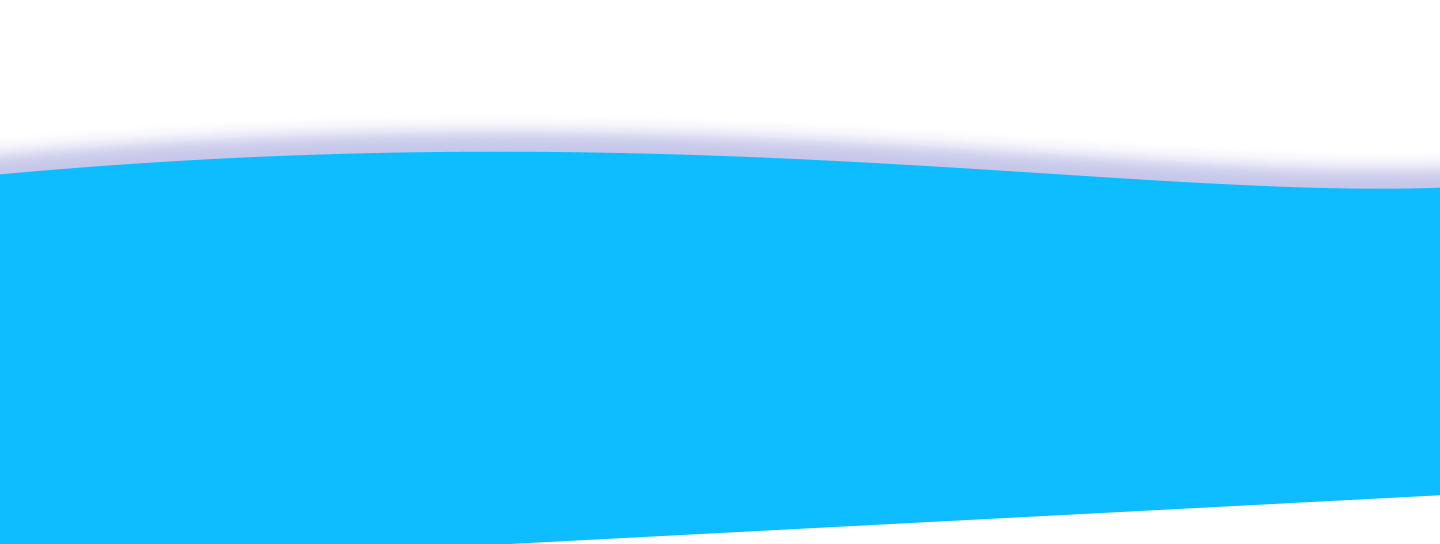
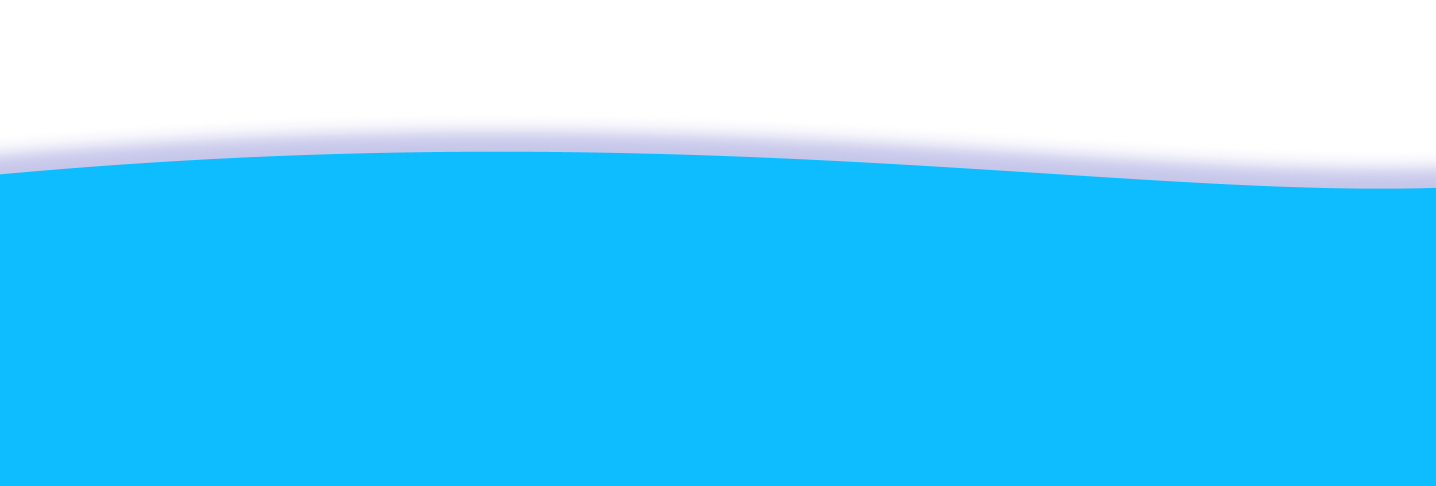
images changes and waves done

Changed region(s): [[0.0, 0.216, 1.0, 0.4012], [0.3677, 0.8951, 1.0, 1.0]]

diff --git a/src/components/Sitesliders/Bannersliders/Bannerslider.jsx b/src/components/Sitesliders/Bannersliders/Bannerslider.jsx
@@ -1,4 +1,4 @@
-import React from "react";
+import React, {useEffect} from "react";
 import Slider from "react-slick";
 import "slick-carousel/slick/slick.css";
 import "slick-carousel/slick/slick-theme.css";
@@ -30,22 +30,38 @@ const settings = {
 //   var wave3 = "--i:3";
 //   var wave4 = "--i:4";
 function Bannerslider(){
+    useEffect(() => {
+        let wave1 = document.getElementById('wave1');
+        let wave2 = document.getElementById('wave2');
+        let wave3 = document.getElementById('wave3');
+        let wave4 = document.getElementById('wave4');
+
+        window.addEventListener('scroll', function(){
+            let value = window.scrollY;
+            wave1.style.backgroundPositionX = 400 + value * 4 + 'px';
+            wave2.style.backgroundPositionX = 300 + value * -4 + 'px';
+            wave3.style.backgroundPositionX = 200 + value * 2 + 'px';
+            wave4.style.backgroundPositionX = 100 + value * -2 + 'px';
+        });
+
+    }, []);
     return(
         <>
             <div className="site--banner--slider">
                 <div className="banner--waves waves-top">
-                    <div className="wave" id="wave1"></div>
-                    <div className="wave" id="wave2"></div>
-                    <div className="wave" id="wave3"></div>
+                    <div className="wave" id="wave1" style={{"--i":"1"}}></div>
+                    <div className="wave" id="wave2" style={{"--i":"2"}}></div>
+                    <div className="wave" id="wave3" style={{"--i":"3"}}></div>
+                    <div className="wave" id="wave4" style={{"--i":"4"}}></div>
                 </div>
                 <Slider {...settings}>
                     <BannerSliderImages SliderImg={BannerSliderImg1} />
                     <BannerSliderImages SliderImg={BannerSliderImg2} />
                     <BannerSliderImages SliderImg={BannerSliderImg3} />
                 </Slider>
-                <div className="banner--waves waves-top">
-                    <div className="wave" id="wave4"></div>
-                </div>
+                {/*<div className="banner--waves waves-top">
+                    
+                </div>*/}
             </div>
             {/* <div className="banner--waves waves-bottom">
                 <img src={wave1} alt="Banner waves" className="banner-wave-4" />

diff --git a/src/assets/styles/banner.css b/src/assets/styles/banner.css
@@ -204,47 +204,53 @@ img.banner-wave-4 {
   background-repeat: no-repeat;
   background-size: 100%;
   animation: animate 4s linear infinite;
-  animation-delay: calc(1 * 0.25s);
+  animation-delay: calc(var(--i) * 0.25s);
 }
-@keyframes animate {
-  0%,100%{
-    transform: translate(0rem, 0rem);
-  }
-  50%{
-    transform: translate(1rem, 1rem);
-    left: -1rem;
-  }
+@keyframes animate
+{
+    0%,100%
+    {
+        transform: translateY(0px);
+    }
+    50%
+    {
+        transform: translateY(10px);
+    }
 }
 .wave#wave1{
   z-index: 1000;
   opacity: 1;
   background: url(images/wave-4-1.png);
+  /*background-position-x: 400px;*/
   background-size: 100% 100%;
-  animation-delay: 1s;
+  /*animation-delay: 1s;*/
   bottom: -8%;
 }
 .wave#wave2{
   z-index: 999;
   opacity: 1;
   background: url(images/wave-3-1.png);
+  background-position-x: 300px;
   background-size: 100% 100%;
   bottom: 0;
-  animation-delay: 3s;
+  /*animation-delay: 3s;*/
 }
 .wave#wave3{
   z-index: 998;
   opacity: 1;
   background: url(images/wave-2-1.png);
+  background-position-x: 200px;
   background-size: 100% 100%;
-  animation-delay: 5s;
+  /*animation-delay: 5s;*/
   bottom: 13%;
 }
 .wave#wave4{
   z-index: 997;
   opacity: 1;
   background: url(images/wave-1-1.png);
+  background-position-x: 100px;
   background-size: 100% 120%;
-  animation-delay: 7s;
+  /*animation-delay: 7s;*/
   bottom: 25%;
 }
 .wave-move{
